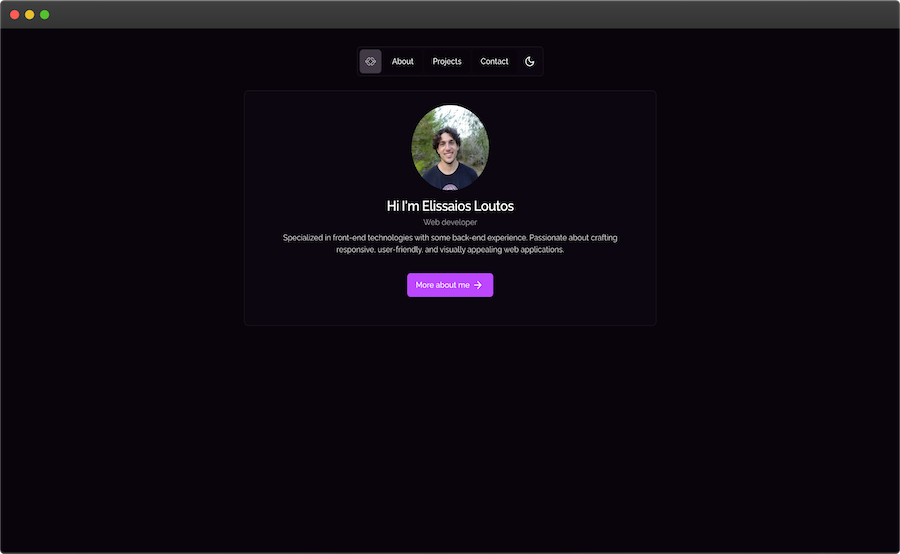
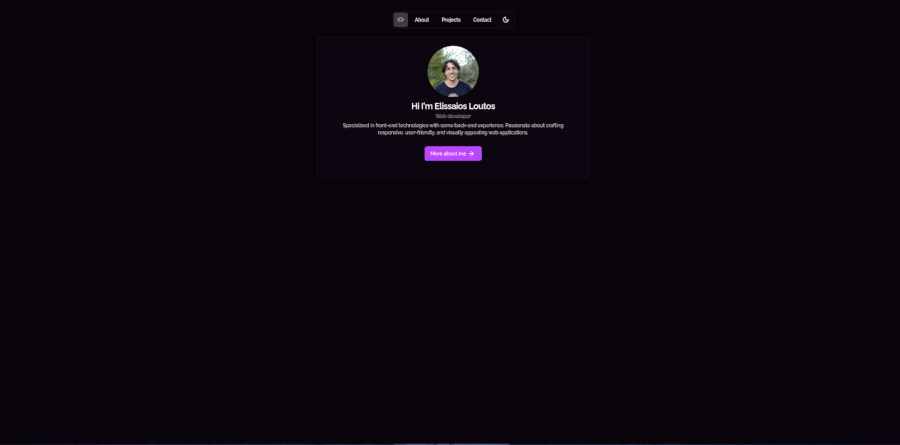
update data and images

Changed region(s): [[0.0, 0.0, 1.0, 1.0], [0.3111, 0.0876, 0.6844, 0.5551]]

diff --git a/components/svgs.tsx b/components/svgs.tsx
@@ -394,6 +394,92 @@ const SVGs = {
       <path d="M18.947 13.177c0 3.263-2 5.649-4.736 5.649h-2.773v-5.65H6.282v10.387h7.93c5.403 0 9.788-4.668 9.788-10.386h-5.052ZM7.894.476L0 1.212l.948 10.352l5.157-.456l-.526-5.615l2.737-.245c2.737-.246 4.91 1.93 5.227 5.193l5.052-.458c-.49-5.752-5.297-9.998-10.7-9.507Z" />
     </svg>
   ),
+  Astro: (
+    <svg
+      viewBox="0 0 85 107"
+      className="h-full w-full"
+      xmlns="http://www.w3.org/2000/svg"
+    >
+      <path
+        d="M27.5894 91.1365C22.7555 86.7178 21.3444 77.4335 23.3583 70.7072C26.8503 74.948 31.6888 76.2914 36.7005 77.0497C44.4375 78.2199 52.0359 77.7822 59.2232 74.2459C60.0454 73.841 60.8052 73.3027 61.7036 72.7574C62.378 74.714 62.5535 76.6892 62.318 78.6996C61.7452 83.5957 59.3086 87.3778 55.4332 90.2448C53.8835 91.3916 52.2437 92.4167 50.6432 93.4979C45.7262 96.8213 44.3959 100.718 46.2435 106.386C46.2874 106.525 46.3267 106.663 46.426 107C43.9155 105.876 42.0817 104.24 40.6845 102.089C39.2087 99.8193 38.5066 97.3081 38.4696 94.5909C38.4511 93.2686 38.4511 91.9345 38.2733 90.6309C37.8391 87.4527 36.3471 86.0297 33.5364 85.9478C30.6518 85.8636 28.37 87.6469 27.7649 90.4554C27.7187 90.6707 27.6517 90.8837 27.5847 91.1341L27.5894 91.1365Z"
+        fill="white"
+      />
+      <path
+        d="M27.5894 91.1365C22.7555 86.7178 21.3444 77.4335 23.3583 70.7072C26.8503 74.948 31.6888 76.2914 36.7005 77.0497C44.4375 78.2199 52.0359 77.7822 59.2232 74.2459C60.0454 73.841 60.8052 73.3027 61.7036 72.7574C62.378 74.714 62.5535 76.6892 62.318 78.6996C61.7452 83.5957 59.3086 87.3778 55.4332 90.2448C53.8835 91.3916 52.2437 92.4167 50.6432 93.4979C45.7262 96.8213 44.3959 100.718 46.2435 106.386C46.2874 106.525 46.3267 106.663 46.426 107C43.9155 105.876 42.0817 104.24 40.6845 102.089C39.2087 99.8193 38.5066 97.3081 38.4696 94.5909C38.4511 93.2686 38.4511 91.9345 38.2733 90.6309C37.8391 87.4527 36.3471 86.0297 33.5364 85.9478C30.6518 85.8636 28.37 87.6469 27.7649 90.4554C27.7187 90.6707 27.6517 90.8837 27.5847 91.1341L27.5894 91.1365Z"
+        fill="url(#paint0_linear_1_59)"
+      />
+      <path
+        d="M0 69.5866C0 69.5866 14.3139 62.6137 28.6678 62.6137L39.4901 29.1204C39.8953 27.5007 41.0783 26.3999 42.4139 26.3999C43.7495 26.3999 44.9325 27.5007 45.3377 29.1204L56.1601 62.6137C73.1601 62.6137 84.8278 69.5866 84.8278 69.5866C84.8278 69.5866 60.5145 3.35233 60.467 3.21944C59.7692 1.2612 58.5911 0 57.0029 0H27.8274C26.2392 0 25.1087 1.2612 24.3634 3.21944C24.3108 3.34983 0 69.5866 0 69.5866Z"
+        fill="white"
+      />
+      <defs>
+        <linearGradient
+          id="paint0_linear_1_59"
+          x1="22.4702"
+          y1="107"
+          x2="69.1451"
+          y2="84.9468"
+          gradientUnits="userSpaceOnUse"
+        >
+          <stop stop-color="#D83333" />
+          <stop offset="1" stop-color="#F041FF" />
+        </linearGradient>
+      </defs>
+    </svg>
+  ),
+  Django: (
+    <svg
+      className="h-full w-full"
+      viewBox="0 0 256 256"
+      version="1.1"
+      xmlns="http://www.w3.org/2000/svg"
+      preserveAspectRatio="xMidYMid"
+    >
+      <g>
+        <rect
+          fill="#092E20"
+          x="0"
+          y="0"
+          width="256"
+          height="256"
+          rx="28"
+        ></rect>
+        <path
+          d="M186.377012,94.197636 L186.377012,160.424478 C186.377012,183.243286 184.707519,194.187745 179.699037,203.649406 C175.060358,212.741266 168.937684,218.490548 156.323731,224.798721 L129.794937,212.183571 C142.410087,206.247593 148.531564,201.05481 152.427049,193.074749 C156.509231,184.91278 157.808923,175.451119 157.808923,150.593015 L157.808923,94.197636 L186.377012,94.197636 Z M140.928486,50.0787207 L140.928486,182.316986 C126.272844,185.099476 115.512688,186.212472 103.826231,186.212472 C68.9487718,186.212472 50.7686431,170.445031 50.7686431,140.205054 C50.7686431,111.079269 70.0629644,92.1583404 99.9295492,92.1583404 C104.567032,92.1583404 108.091519,92.5281423 112.359199,93.6411381 L112.359199,50.0787207 L140.928486,50.0787207 Z M102.713236,115.160254 C88.243093,115.160254 79.8944275,124.065418 79.8944275,139.647359 C79.8944275,154.860696 87.8720944,163.208164 102.527736,163.208164 C105.680028,163.208164 108.278215,163.022665 112.359199,162.467364 L112.359199,116.643052 C109.020212,115.531253 106.237722,115.160254 102.713236,115.160254 Z M186.377012,50.2307105 L186.377012,79.5419941 L157.808923,79.5419941 L157.808923,50.2307105 L186.377012,50.2307105 Z"
+          fill="#FFFFFD"
+        ></path>
+      </g>
+    </svg>
+  ),
+  Angular: (
+    <svg
+      className="h-full w-full"
+      viewBox="0 0 256 270"
+      xmlns="http://www.w3.org/2000/svg"
+      preserveAspectRatio="xMinYMin meet"
+    >
+      <path
+        d="M127.606.341L.849 44.95 20.88 211.022l106.86 58.732 107.412-59.528L255.175 44.16 127.606.341z"
+        fill="#B3B3B3"
+      />
+      <path
+        d="M242.532 53.758L127.31 14.466v241.256l96.561-53.441 18.66-148.523z"
+        fill="#A6120D"
+      />
+      <path
+        d="M15.073 54.466l17.165 148.525 95.07 52.731V14.462L15.074 54.465z"
+        fill="#DD1B16"
+      />
+      <path
+        d="M159.027 142.898L127.31 157.73H93.881l-15.714 39.305-29.228.54L127.31 23.227l31.717 119.672zm-3.066-7.467l-28.44-56.303-23.329 55.334h23.117l28.652.97z"
+        fill="#F2F2F2"
+      />
+      <path
+        d="M127.309 23.226l.21 55.902 26.47 55.377h-26.62l-.06 23.189 36.81.035 17.204 39.852 27.967.518-81.981-174.873z"
+        fill="#B3B3B3"
+      />
+    </svg>
+  ),
 };
 
 export type svgType = keyof typeof SVGs;

diff --git a/lib/data.ts b/lib/data.ts
@@ -15,10 +15,6 @@ import {
   ProjectsType,
   SkillsType,
 } from "./types";
-import MyImage from "@/public/my-photo.png";
-import Personal from "@/public/img/personal-image.png";
-import SerendipityExplorer from "@/public/img/serendipity-explorer-image.png";
-import WineAtWest from "@/public/img/wine-at-west-image.png";
 
 export const menuItemsData: MenuItemsType = [
   { href: "/", label: "Logo", icon: true },
@@ -32,7 +28,7 @@ export const homeData: HomeType = {
   position: "Web developer",
   description:
     "Specialized in front-end technologies with some back-end experience. Passionate about crafting responsive, user-friendly, and visually appealing web applications.",
-  image: MyImage,
+  image: "/my-photo.png",
 };
 
 export const skillsData: SkillsType = [
@@ -50,8 +46,11 @@ export const skillsData: SkillsType = [
     title: "Frameworks",
     skills: [
       { icon: "nextjs", text: "Next.js" },
-      { icon: "reactjs", text: "React.js" },
-      { icon: "express", text: "Express.js" },
+      { icon: "reactjs", text: "React" },
+      { icon: "Astro", text: "Astro" },
+      { icon: "Angular", text: "Angular" },
+      { icon: "express", text: "Express" },
+      { icon: "Django", text: "Django" },
     ],
   },
   {
@@ -86,7 +85,7 @@ export const experienceData: ExperienceType = {
     {
       title: "Web developer",
       company: "Apes E.E",
-      duration: "Dec 2023 - Present",
+      duration: "Dec 2023 - May 2025",
       location: "Athens, Attiki, Greece",
       description: {
         title: "Responsibilities",
@@ -155,7 +154,7 @@ export const projectsData: ProjectsType = [
             icon: FaExternalLinkAlt,
           },
         ],
-        image: Personal,
+        image: "/img/personal-image.png",
       },
     ],
   },
@@ -180,7 +179,7 @@ export const projectsData: ProjectsType = [
             icon: FaExternalLinkAlt,
           },
         ],
-        image: SerendipityExplorer,
+        image: "/img/serendipity-explorer-image.png",
       },
       {
         title: "Wine at West - Website",
@@ -199,7 +198,27 @@ export const projectsData: ProjectsType = [
             icon: FaExternalLinkAlt,
           },
         ],
-        image: WineAtWest,
+        image: "/img/wine-at-west-image.png",
+      },
+      {
+        title: "Ventouris Events - Website",
+        description:
+          "An elegant website for a premium event planning and catering company",
+        about:
+          "Ventouris Events is a modern and stylish website showcasing the services and portfolio of a high-end event planning and catering company. Designed to communicate elegance and professionalism, the site features a visually appealing layout, responsive design, and informative content about event services and wedding planning. Built with Next.js, TypeScript, Tailwind CSS, and Shadcn/ui, it delivers a seamless experience across all devices.",
+        technologies: [
+          { icon: "nextjs", text: "Next.js" },
+          { icon: "ts", text: "TypeScript" },
+          { icon: "tailwind", text: "Tailwind CSS" },
+          { icon: "shadcn", text: "Shadcn/ui" },
+        ],
+        links: [
+          {
+            href: "https://ventourisevents.com/en",
+            icon: FaExternalLinkAlt,
+          },
+        ],
+        image: "/img/ventouris-events-image.png",
       },
     ],
   },

diff --git a/lib/types.ts b/lib/types.ts
@@ -47,7 +47,7 @@ export type HomeType = {
   title: string;
   position: string;
   description: string;
-  image: StaticImageData;
+  image: string;
 };
 
 export type ProjectsType = {
@@ -61,7 +61,7 @@ export type ProjectsType = {
       href: string;
       icon: IconType;
     }[];
-    image: StaticImageData;
+    image: string;
   }[];
 }[];
 
